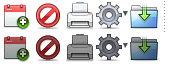
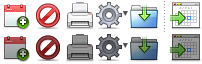
Move button for event import to the toolbar in order to make the UI consistent with the address book (#1655)

diff --git a/plugins/calendar/skins/larry/templates/calendar.html b/plugins/calendar/skins/larry/templates/calendar.html
@@ -14,6 +14,7 @@
 		<div id="calendartoolbar" class="toolbar">
 			<roundcube:button command="addevent" type="link" class="button addevent disabled" classAct="button addevent" classSel="button addevent pressed" label="calendar.new_event" title="calendar.new_event" />
 			<roundcube:button command="print" type="link" class="button print disabled" classAct="button print" classSel="button print pressed" label="calendar.print" title="calendar.printtitle" />
+			<roundcube:button command="events-import" type="link" class="button import disabled" classAct="button import" classSel="button import pressed" label="import" title="calendar.importevents" />
 			<roundcube:button command="export" type="link" class="button export disabled" classAct="button export" classSel="button export pressed" label="calendar.export" title="calendar.exporttitle" />
 			<roundcube:container name="toolbar" id="calendartoolbar" />
 		</div>
@@ -50,7 +51,6 @@
 		<li><roundcube:button command="calendar-edit" label="calendar.edit" classAct="active" /></li>
 		<li><roundcube:button command="calendar-remove" label="calendar.remove" classAct="active" /></li>
 		<li><roundcube:button command="calendar-showurl" label="calendar.showurl" classAct="active" /></li>
-		<li><roundcube:button command="events-import" label="calendar.importevents" classAct="active" /></li>
 		<roundcube:if condition="env:calendar_driver == 'kolab'" />
 		<li class="separator_above"><roundcube:button command="folders" task="settings" type="link" label="managefolders" classAct="active" /></li>
 		<roundcube:endif />

diff --git a/plugins/calendar/skins/classic/templates/calendar.html b/plugins/calendar/skins/classic/templates/calendar.html
@@ -36,7 +36,6 @@
     <li><roundcube:button command="calendar-edit" label="calendar.edit" classAct="active" /></li>
     <li><roundcube:button command="calendar-remove" label="calendar.remove" classAct="active" /></li>
     <li><roundcube:button command="calendar-showurl" label="calendar.showurl" classAct="active" /></li>
-    <li><roundcube:button command="events-import" label="calendar.importevents" classAct="active" /></li>
     <roundcube:if condition="env:calendar_driver == 'kolab'" />
     <li class="separator_above"><roundcube:button command="folders" task="settings" type="link" label="managefolders" classAct="active" /></li>
     <roundcube:endif />
@@ -163,6 +162,7 @@
 <div id="calendartoolbar">
   <roundcube:button command="addevent" type="link" class="buttonPas addevent" classAct="button addevent" classSel="button addeventSel" title="calendar.new_event" content=" " />
   <roundcube:button command="print" type="link" class="buttonPas print" classAct="button print" classSel="button printSel" title="calendar.print" content=" " />
+  <roundcube:button command="events-import" type="link" class="buttonPas import" classAct="button import" classSel="button importSel" title="calendar.importevents" content=" " />
   <roundcube:button command="export" type="link" class="buttonPas export" classAct="button export" classSel="button exportSel" title="calendar.export" content=" " />
   <roundcube:container name="toolbar" id="calendartoolbar" />
 </div>

diff --git a/plugins/calendar/skins/larry/calendar.css b/plugins/calendar/skins/larry/calendar.css
@@ -276,6 +276,7 @@ pre {
 	top: -6px;
 	left: 0;
 	height: 40px;
+	white-space: nowrap;
 }
 
 #calendartoolbar a.button {
@@ -287,7 +288,15 @@ pre {
 }
 
 #calendartoolbar a.button.export {
+	min-width: 50px;
+	max-width: 55px;
 	background-position: center -40px;
+}
+
+#calendartoolbar a.button.import {
+	min-width: 50px;
+	max-width: 55px;
+	background-position: center -440px;
 }
 
 #calendartoolbar a.button.print {

diff --git a/plugins/calendar/skins/classic/calendar.css b/plugins/calendar/skins/classic/calendar.css
@@ -253,6 +253,14 @@ pre {
   background-position: -64px -32px;
 }
 
+#calendartoolbar a.import {
+	background-position: -168px 0;
+}
+
+#calendartoolbar a.importSel {
+	background-position: -168px -32px;
+}
+
 #calendartoolbar a.export {
 	background-position: -128px 0;
 }
